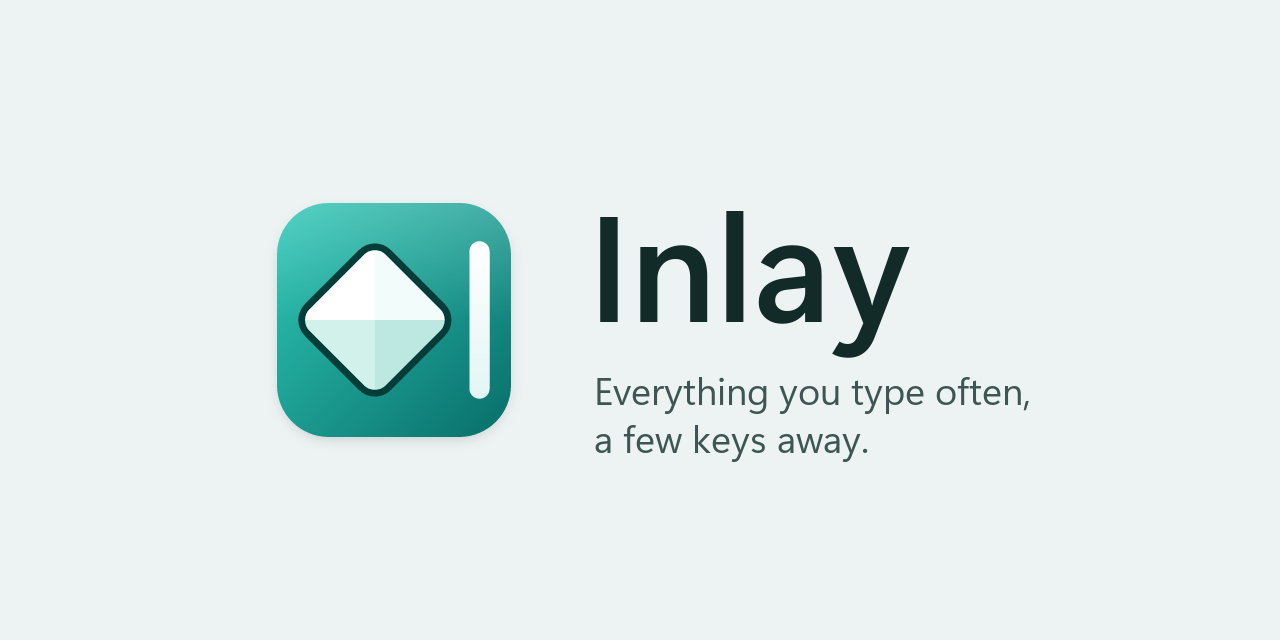
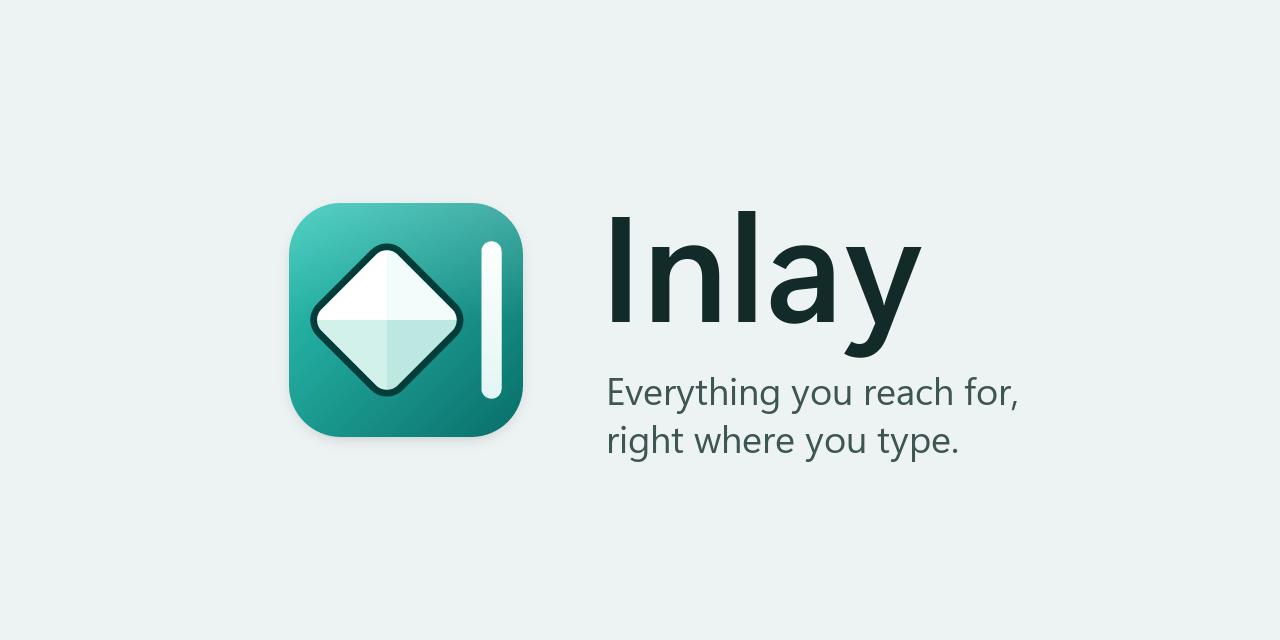
New tagline: "Everything you reach for, right where you type."
Used in the README and the social preview image.

Changed region(s): [[0.2188, 0.3125, 0.4062, 0.6875], [0.4688, 0.5938, 0.8125, 0.7188], [0.4688, 0.3125, 0.7188, 0.5625]]

diff --git a/assets/icon/build.py b/assets/icon/build.py
@@ -212,7 +212,7 @@ def social_preview() -> Image.Image:
     d = ImageDraw.Draw(img)
     title = font(150, 600, 36)
     tag = font(38, 400, 20)
-    lines = ["Everything you type often,", "a few keys away."]
+    lines = ["Everything you reach for,", "right where you type."]
     mark_size, gap = 288, 56
     text_w = max(d.textlength("Inlay", font=title), *(d.textlength(t, font=tag) for t in lines))
     x = round((w - (mark_size + gap + text_w)) / 2)  # mark and text centred as one group

diff --git a/README.md b/README.md
@@ -4,7 +4,7 @@
 
 # Inlay
 
-**Snippets, images, emoji and text expansion for any text field on Windows.**
+**Everything you reach for, right where you type.**
 
 [![Latest release](https://img.shields.io/github/v/release/Alexciao/inlay?label=release)](https://github.com/Alexciao/inlay/releases/latest)
 [![CI](https://github.com/Alexciao/inlay/actions/workflows/ci.yml/badge.svg)](https://github.com/Alexciao/inlay/actions/workflows/ci.yml)
